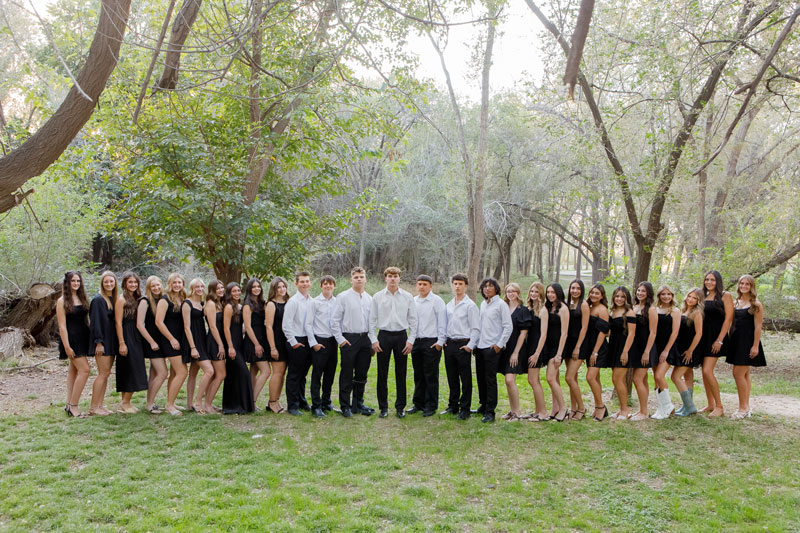
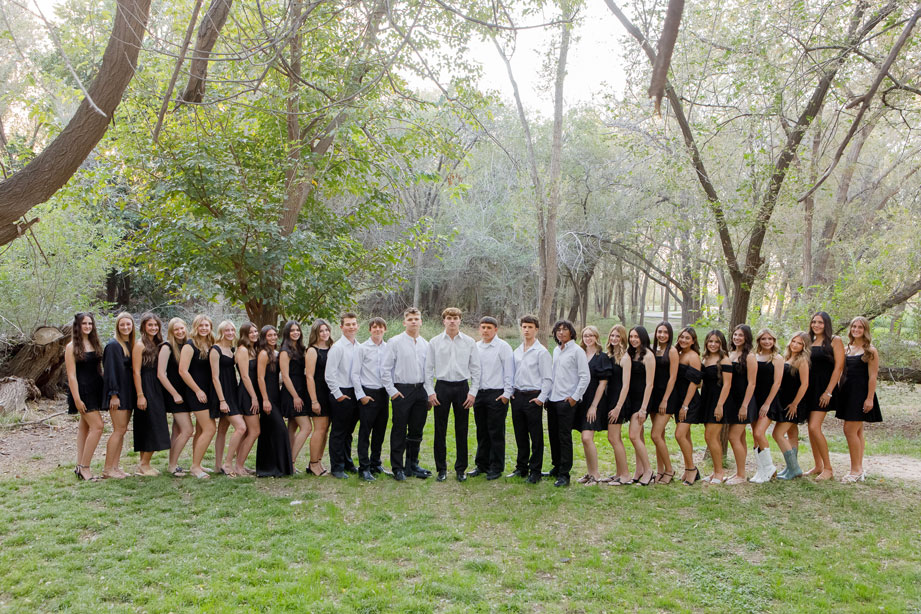
added big picture of all seniors

diff --git a/app/belles-beaux/page.tsx b/app/belles-beaux/page.tsx
@@ -109,7 +109,18 @@ export default function BellesBeaux() {
               </div>
             ))}
           </div>
-          
+
+          {/* Senior Group Photo */}
+          <div className="relative w-full md:w-3/4 mx-auto rounded-xl overflow-hidden shadow-2xl bg-gray-200 mt-16">
+            <Image
+              src="/images/seniors-25-26.jpg"
+              alt="Senior Class of 2026"
+              width={1400}
+              height={800}
+              className="w-full h-auto object-cover"
+            />
+          </div>
+
         </div>
       </section>
 
